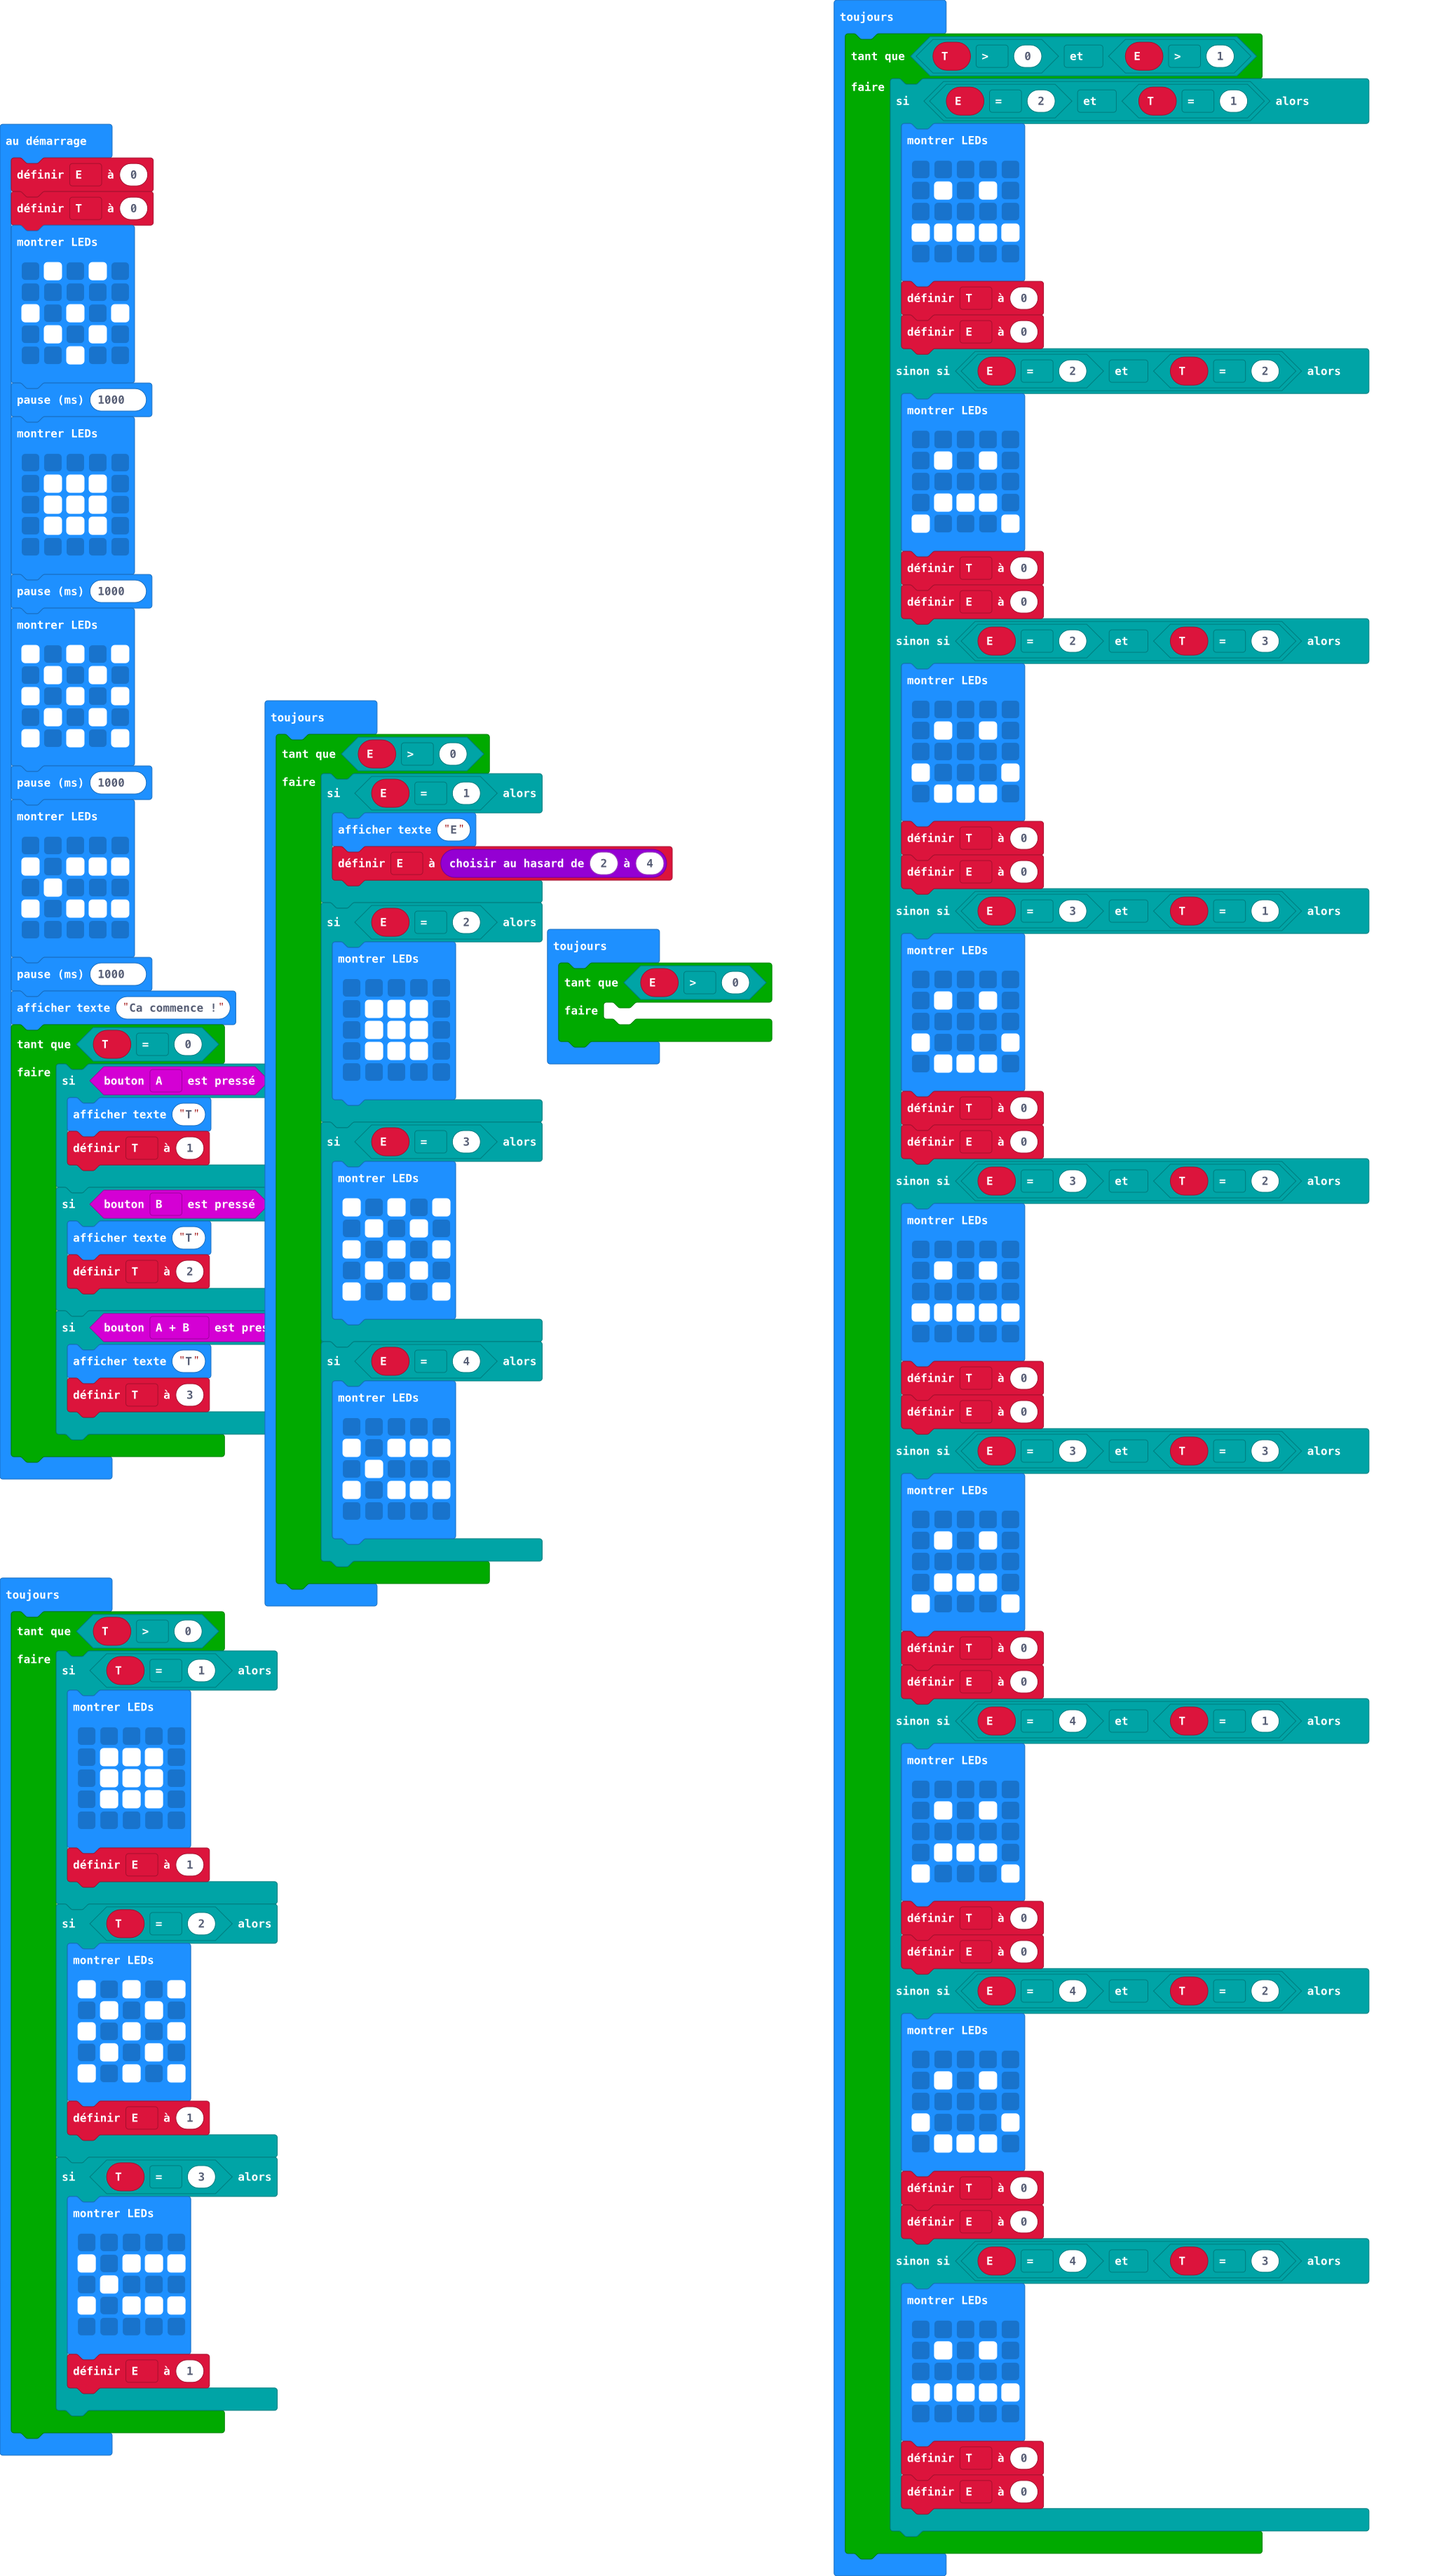
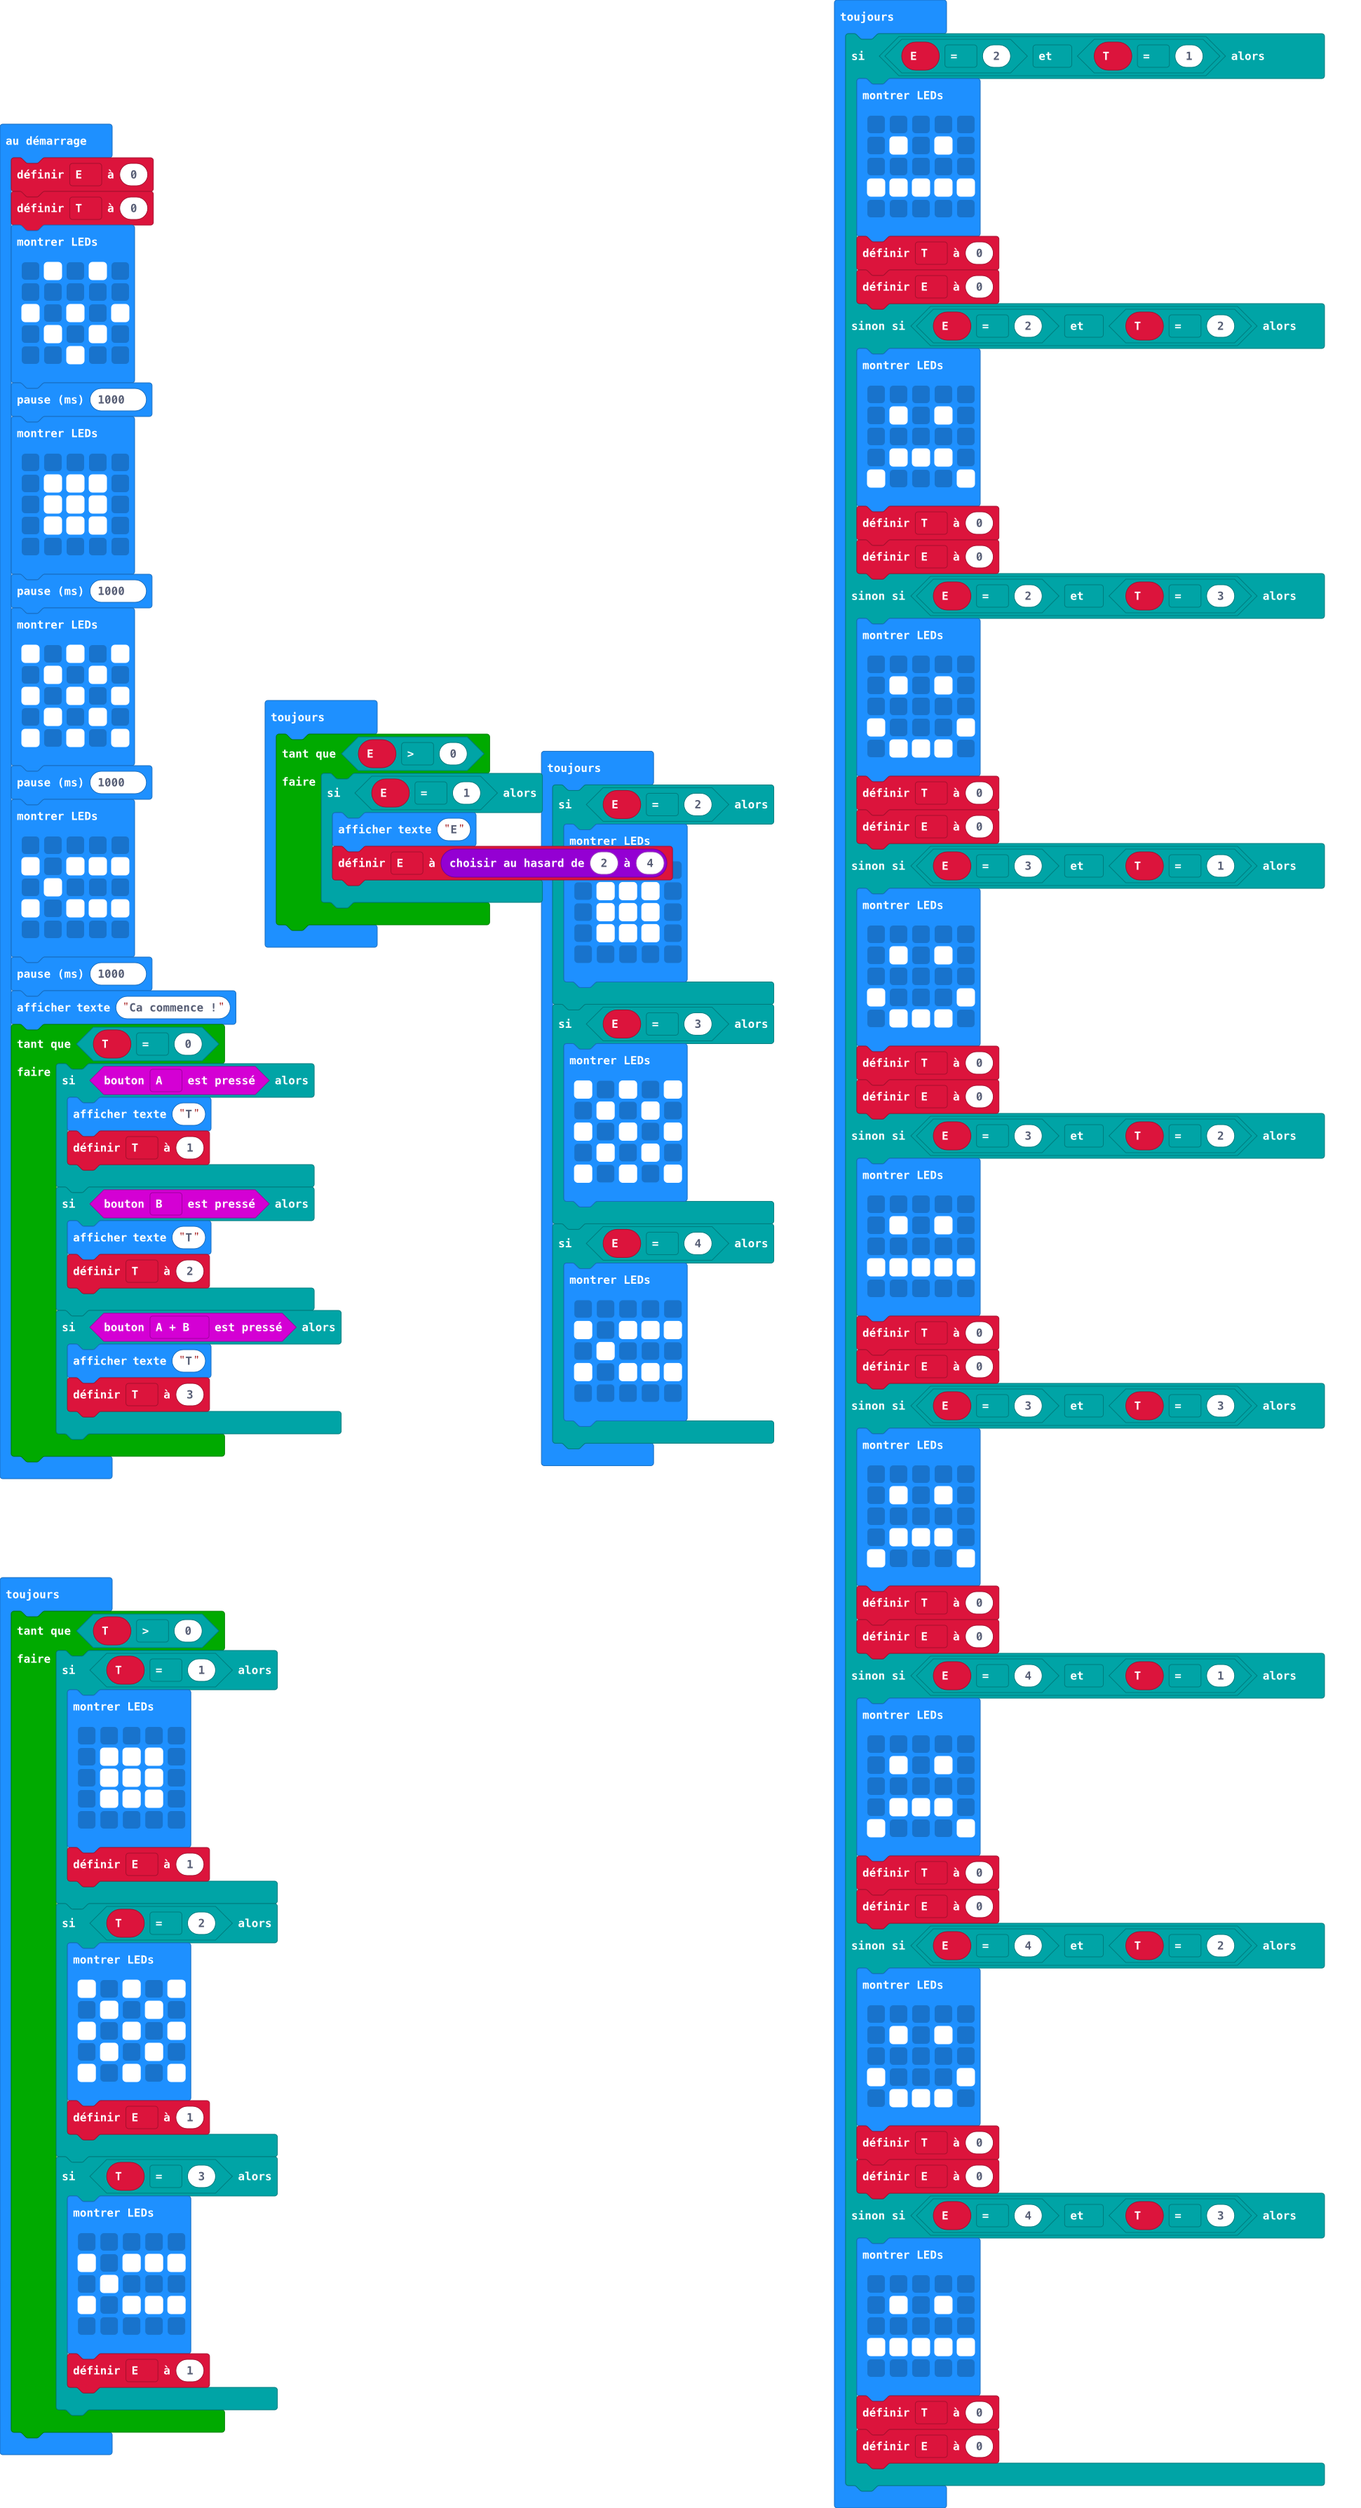
Mise à jour main.blocks, main.ts

diff --git a/main.ts b/main.ts
@@ -48,98 +48,96 @@ while (T == 0) {
     }
 }
 basic.forever(function () {
-    while (T > 0 && E > 1) {
-        if (E == 2 && T == 1) {
-            basic.showLeds(`
-                . . . . .
-                . # . # .
-                . . . . .
-                # # # # #
-                . . . . .
-                `)
-            T = 0
-            E = 0
-        } else if (E == 2 && T == 2) {
-            basic.showLeds(`
-                . . . . .
-                . # . # .
-                . . . . .
-                . # # # .
-                # . . . #
-                `)
-            T = 0
-            E = 0
-        } else if (E == 2 && T == 3) {
-            basic.showLeds(`
-                . . . . .
-                . # . # .
-                . . . . .
-                # . . . #
-                . # # # .
-                `)
-            T = 0
-            E = 0
-        } else if (E == 3 && T == 1) {
-            basic.showLeds(`
-                . . . . .
-                . # . # .
-                . . . . .
-                # . . . #
-                . # # # .
-                `)
-            T = 0
-            E = 0
-        } else if (E == 3 && T == 2) {
-            basic.showLeds(`
-                . . . . .
-                . # . # .
-                . . . . .
-                # # # # #
-                . . . . .
-                `)
-            T = 0
-            E = 0
-        } else if (E == 3 && T == 3) {
-            basic.showLeds(`
-                . . . . .
-                . # . # .
-                . . . . .
-                . # # # .
-                # . . . #
-                `)
-            T = 0
-            E = 0
-        } else if (E == 4 && T == 1) {
-            basic.showLeds(`
-                . . . . .
-                . # . # .
-                . . . . .
-                . # # # .
-                # . . . #
-                `)
-            T = 0
-            E = 0
-        } else if (E == 4 && T == 2) {
-            basic.showLeds(`
-                . . . . .
-                . # . # .
-                . . . . .
-                # . . . #
-                . # # # .
-                `)
-            T = 0
-            E = 0
-        } else if (E == 4 && T == 3) {
-            basic.showLeds(`
-                . . . . .
-                . # . # .
-                . . . . .
-                # # # # #
-                . . . . .
-                `)
-            T = 0
-            E = 0
-        }
+    if (E == 2 && T == 1) {
+        basic.showLeds(`
+            . . . . .
+            . # . # .
+            . . . . .
+            # # # # #
+            . . . . .
+            `)
+        T = 0
+        E = 0
+    } else if (E == 2 && T == 2) {
+        basic.showLeds(`
+            . . . . .
+            . # . # .
+            . . . . .
+            . # # # .
+            # . . . #
+            `)
+        T = 0
+        E = 0
+    } else if (E == 2 && T == 3) {
+        basic.showLeds(`
+            . . . . .
+            . # . # .
+            . . . . .
+            # . . . #
+            . # # # .
+            `)
+        T = 0
+        E = 0
+    } else if (E == 3 && T == 1) {
+        basic.showLeds(`
+            . . . . .
+            . # . # .
+            . . . . .
+            # . . . #
+            . # # # .
+            `)
+        T = 0
+        E = 0
+    } else if (E == 3 && T == 2) {
+        basic.showLeds(`
+            . . . . .
+            . # . # .
+            . . . . .
+            # # # # #
+            . . . . .
+            `)
+        T = 0
+        E = 0
+    } else if (E == 3 && T == 3) {
+        basic.showLeds(`
+            . . . . .
+            . # . # .
+            . . . . .
+            . # # # .
+            # . . . #
+            `)
+        T = 0
+        E = 0
+    } else if (E == 4 && T == 1) {
+        basic.showLeds(`
+            . . . . .
+            . # . # .
+            . . . . .
+            . # # # .
+            # . . . #
+            `)
+        T = 0
+        E = 0
+    } else if (E == 4 && T == 2) {
+        basic.showLeds(`
+            . . . . .
+            . # . # .
+            . . . . .
+            # . . . #
+            . # # # .
+            `)
+        T = 0
+        E = 0
+    } else if (E == 4 && T == 3) {
+        basic.showLeds(`
+            . . . . .
+            . # . # .
+            . . . . .
+            # # # # #
+            . . . . .
+            `)
+        T = 0
+        E = 0
     }
 })
 basic.forever(function () {
@@ -148,38 +146,35 @@ basic.forever(function () {
             basic.showString("E")
             E = randint(2, 4)
         }
-        if (E == 2) {
-            basic.showLeds(`
-                . . . . .
-                . # # # .
-                . # # # .
-                . # # # .
-                . . . . .
-                `)
-        }
-        if (E == 3) {
-            basic.showLeds(`
-                # . # . #
-                . # . # .
-                # . # . #
-                . # . # .
-                # . # . #
-                `)
-        }
-        if (E == 4) {
-            basic.showLeds(`
-                . . . . .
-                # . # # #
-                . # . . .
-                # . # # #
-                . . . . .
-                `)
-        }
     }
 })
 basic.forever(function () {
-    while (E > 0) {
-    	
+    if (E == 2) {
+        basic.showLeds(`
+            . . . . .
+            . # # # .
+            . # # # .
+            . # # # .
+            . . . . .
+            `)
+    }
+    if (E == 3) {
+        basic.showLeds(`
+            # . # . #
+            . # . # .
+            # . # . #
+            . # . # .
+            # . # . #
+            `)
+    }
+    if (E == 4) {
+        basic.showLeds(`
+            . . . . .
+            # . # # #
+            . # . . .
+            # . # # #
+            . . . . .
+            `)
     }
 })
 basic.forever(function () {
